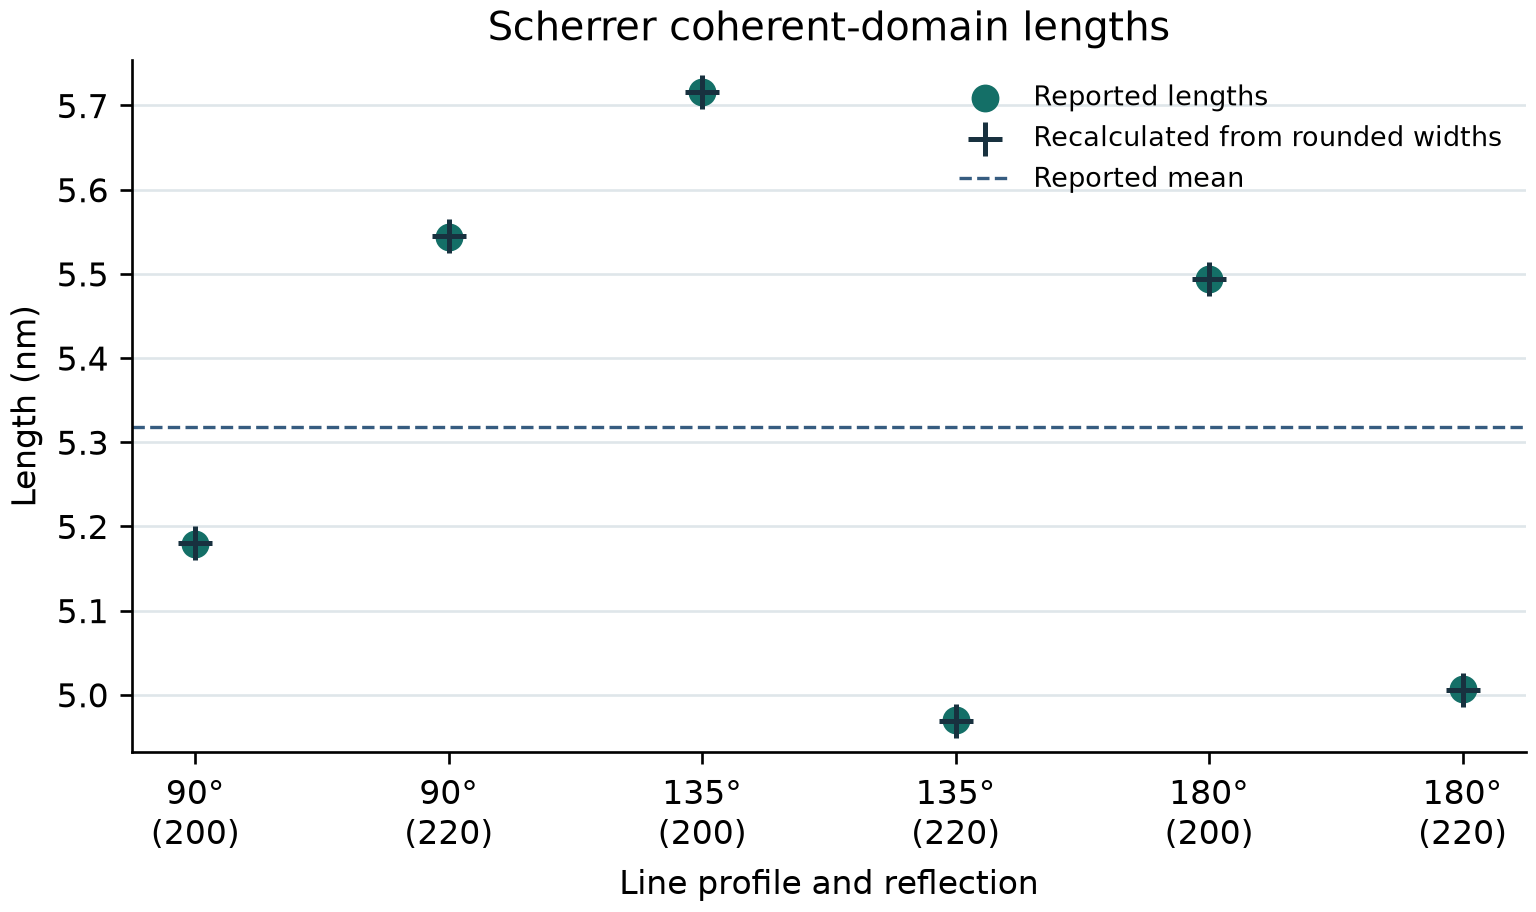
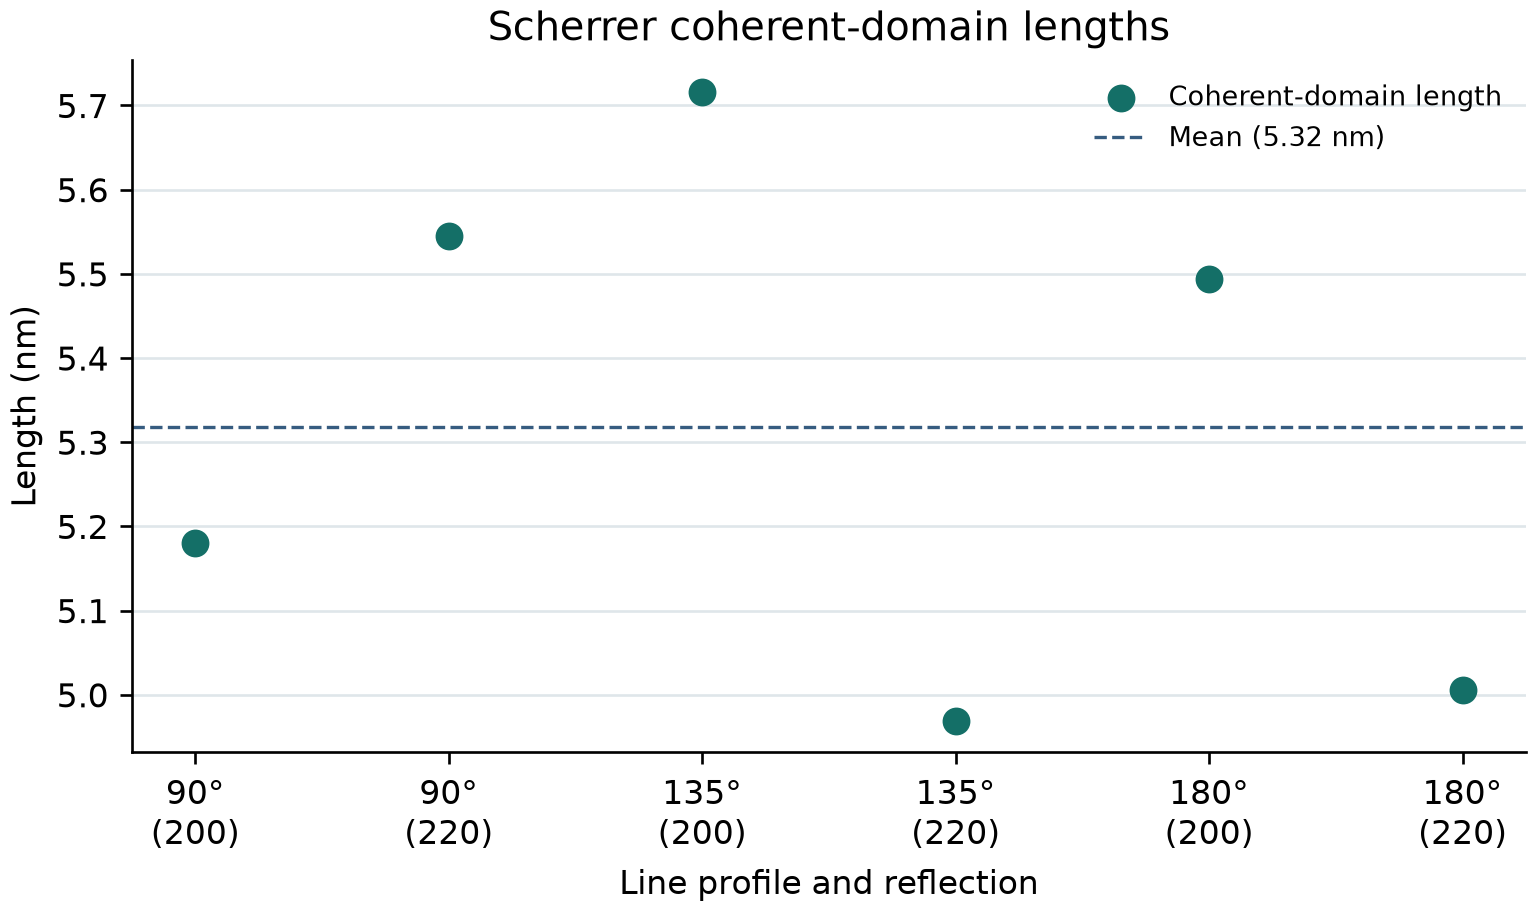
Publish microscopy figures and diameter distributions

diff --git a/figures/README.md b/figures/README.md
@@ -1,14 +1,10 @@
-# Project figures
+# Characterization figures
 
-The original figures are from the project team report *PbS Nanocrystal Photoconducting Detectors* (2025). The two Python figures use the transcribed values under [reported data](../data/reported/).
+- [HAADF-STEM images and particle segmentation](dark-field-tem.png)
+- [Field and pooled particle-size distributions](tem-particle-distribution.png)
+- [Mean particle diameters and standard deviations](tem-reported-summary.png)
+- [Selected-area electron diffraction and intensity profiles](electron-diffraction.png)
+- [Gaussian diffraction peak fits](diffraction-line-fits.png)
+- [Scherrer coherent-domain lengths](scherrer-comparison.png)
 
-| File | Source |
-| --- | --- |
-| ir-absorbance.png | Original Fig. 10 |
-| dark-field-tem.png | Original Fig. 11 |
-| electron-diffraction.png | Original Fig. 12 |
-| diffraction-line-fits.png | Original Fig. 13 |
-| current-voltage.png | Original Fig. 14 |
-| spectral-response.png | Original Fig. 15 |
-| tem-reported-summary.png | Python plot of reported TEM means and standard deviations |
-| scherrer-comparison.png | Python comparison of reported and recalculated coherent lengths |
+The [optical and electrical results](../replicated/) include absorbance, dark and illuminated I–V sweeps, the spectral response, and the numerical output tables.
